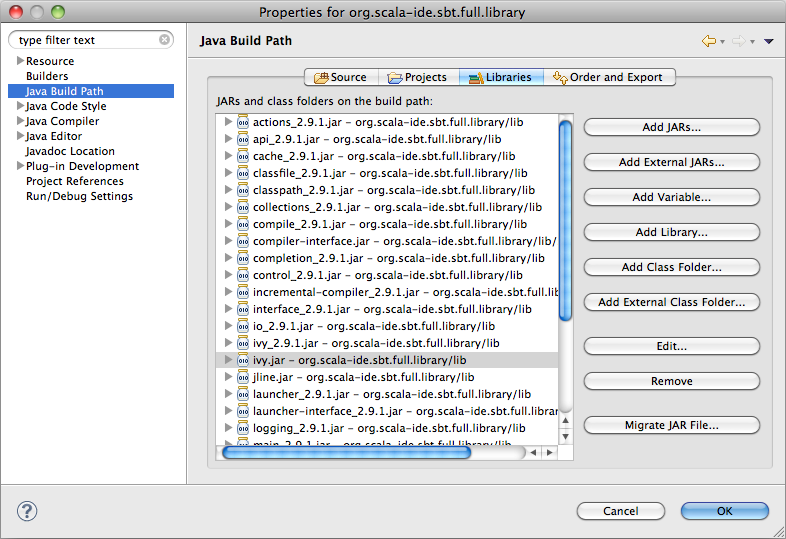
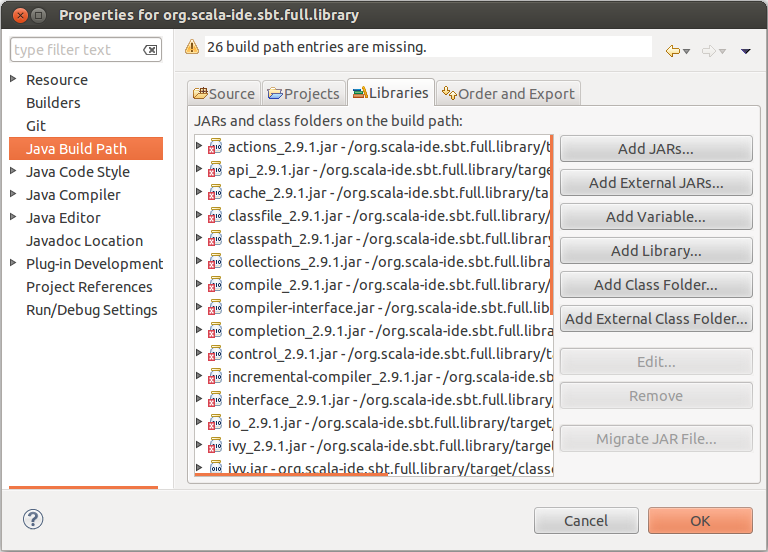
Updated the documentation about the new build
Fix #1001064

diff --git a/dev/setup/setup.rst b/dev/setup/setup.rst
@@ -20,13 +20,7 @@ Requirements
 
 * The `Scala IDE Helium for Scala 2.9 <http://scala-ide.org/download/nightly.html>`_.
 
-
-You will also need a terminal to run some script. If you are on Windows, we suggest you to 
-install `Cygwin <http://www.cygwin.com/>`_ (how could you live without it on Windows anyway!?). 
-It is not mandatory to use Cygwin, but in this documentation we assume you have a way to run 
-bash scripts, or else, you have the time and motivation to look inside the existing scripts and 
-convert them in Windows batch files, if needed (if you do so, make sure to send a pull request our way, 
-and we will make the Windows scripts available to all contributors).
+This document uses a script to build Scala IDE. If you are on Windows, we suggest you to install Cygwin (how could you live without it on Windows anyway!?). Otherwise, the :ref:`building_run-the-build` section of the documentation describes the different steps to execute for a full build.
 
 .. _setup_fork-the-project:
 
@@ -52,64 +46,53 @@ Make sure to `add an Upstream <http://help.github.com/fork-a-repo/#Set-Up-Your-L
 to the original Scala IDE git remote repository, so that you can keep fetching the latest changes 
 made in the project, and easily integrate them back in your fork.
 
-Now, fire up Eclipse and import the Scala IDE project. In a few moment you will be all set to start 
-hacking on the Scala IDE!
+Pull the libraries
+------------------
 
+The Scala IDE projects uses libraries which are pulled during the build process and copied in the ``target/lib`` folders.
+So let's run the build.
+
+From the project root, run the following command if you are using Scala IDE with Scala 2.9:
+
+.. code-block:: bash
+
+   $ ./build-all.sh clean install
+
+or the following if you are using Scala IDE with Scala 2.10:
+
+.. code-block:: bash
+
+   $ ./build-all.sh -P scala-2.10.x clean install
+
+If you want more information concerning the build, check out :ref:`building_run-the-build`.
 
 Import the projects into Eclipse
 --------------------------------
 
 The Scala IDE project already contains the metadata files needed by Eclipse to setup the project. 
-To import the Scala IDE in your workspace simply click on File > Import. The Eclipse Import dialog 
-will open. There, select General > Existing Projects into Workspace and click Next. A new dialog 
+To import the Scala IDE in your workspace simply click on ``File > Import``. The Eclipse Import dialog 
+will open. There, select ``General > Existing Projects into Workspace`` and click Next. A new dialog 
 will open. Browse to the folder that points to your cloned Scala IDE project's and select it. 
 
 A list of projects should then be loaded in the below white area. The only projects that you absolutely 
 need to import in Eclipse are ``org.scala-ide.sbt.full.library``, ``org.scala-ide.sdt.core`` and 
 ``org.scala-ide.sdt.core.tests``. Select only those and click Finish. 
  
-There is only one more thing you need to do to get ready to hack the Scala IDE project. You will 
+There is only one more thing to check to get ready to hack the Scala IDE project. You may 
 notice that the ``org.scala-ide.sbt.full.library`` project has build path errors. This project is 
-grouping together a bunch of SBT jars into one OSGI bundle. In order to retrieve them from 
-different SBT/Ivy repositories, you need to run a script from the command line. 
- 
-Open a terminal, go in your (local) Scala IDE project's root folder, and then 
- 
-.. code-block:: bash
- 
-	$ cd org.scala-ide.build-toolchain
- 
-The script to run is different depending on the Scala version packaged with the Scala IDE plug-in 
-you have installed.
- 
-If you are using the Scala IDE with Scala 2.9
- 
-.. code-block:: bash
-	
-	$ ./build-toolchain-2.9.x.sh
-	
-or, if you are using Scala IDE with Scala 2.10 (trunk)
- 
-.. code-block:: bash
-	
-	$ ./build-toolchain-trunk.sh
- 
-After the script completes, refresh the ``org.scala-ide.sbt.full.library`` project in Eclipse. Then, 
-expand the ``org.scala-ide.sbt.full.library`` project and expand the ``lib`` folder. You should 
-see a number of JARs with a Scala version appended.
- 
-Now, right click on the ``org.scala-ide.sbt.full.library`` project and then click "Properties". A 
-dialog will open. Click on "Java Build Path" and select the Libraries tab. You should see something 
+grouping together a bunch of SBT jars into one OSGI bundle. The project build path is configured by default to
+reference the 2.9 version of the jars, so the configuration will be wrong if you are working with Scala 2.10.
+
+To fix this, right click on the ``org.scala-ide.sbt.full.library`` project and then click "Properties". A 
+dialog will open. Click on "Java Build Path" and select the "Libraries" tab. You should see something 
 on the lines of:
  
 .. image:: images/sbt-full-jars.png
    :width: 100%
    :target: ../../_images/sbt-full-jars.png
  
-If you are seeing errors it means that the imported JARs do not match the ones existing in 
-``org.scala-ide.sbt.full.library/lib`` folder. To fix this, first remove all JARs, and then click 
-the "Add JARs..." button and browse to ``org.scala-ide.sbt.full.library/lib``. Select all JARs in the 
-folder and click OK.
+First remove all JARs, and then click the "Add JARs..." button and browse to ``org.scala-ide.sbt.full.library/target/classes/lib``.
+Select all JARs in the folder and click OK.
  
 Now click the "Order and Export" tab and make sure to export all JARs click the "Select All" button. 
  
@@ -119,22 +102,9 @@ Now click the "Order and Export" tab and make sure to export all JARs click the 
  
  
 Click OK. 
-
-Eclipse should automatically refresh the projects, but you will still see some build 
-errors in the ``org.scala-ide.sbt.core`` project. The problem is that we are missing a few 
-dependencies needed to compile the project's sources. To fix this, you will need to build the 
-project from the terminal. Follow the steps described in :ref:`building_run-the-build`. Then, 
-come back to finish the setup. 
-
-When running the build script, Maven will take care of copying the dependecies in the 
-``org.scala-ide.sbt.core`` project, inside the ``/lib`` folder. After the build completed, you should 
-no longer see errors inside Eclipse. If you do still see errors, try to refresh all projects (in 
-Eclipse, select all the imported Scala IDE projects and press F5) and do a full clean, 
-re-build (to do so, click on the "Project" menu item, and the "Clean...").
  
-If after rebuilding you still see errors, drop us a note in the `Scala IDE Developer 
+If after rebuilding you see any errors, drop us a note in the `Scala IDE Developer 
 Mailing List <http://groups.google.com/group/scala-ide-dev?pli=1>`_.
-
 
 Run the Scala IDE within Eclipse
 --------------------------------

diff --git a/dev/building/building.rst b/dev/building/building.rst
@@ -2,7 +2,7 @@ Building the Scala IDE
 ======================
 
 The Scala IDE for Eclipse can be built on the command line using Maven, as is 
-done, for example, during the `Hudson-driven nightly builds on Amazon EC2 <https://jenkins.scala-ide.org:8496/jenkins/>`_. 
+done, for example, during the `Jenkins-driven nightly builds <https://jenkins.scala-ide.org:8496/jenkins/>`_. 
 
 
 Requirements
@@ -18,35 +18,25 @@ Requirements
 * You have cloned the Scala IDE project. Read :ref:`setup_fork-the-project` for 
   more information about this point.
 
-You will also need a terminal to run some script. If you are on Windows, we
-suggest you to install Cygwin (how could you live without it on Windows
-anyway!?). It is not mandatory to use Cygwin, but in this documentation we
-assume you have a way to run bash scripts, or else, you have the time and
-motivation to look inside the existing scripts and convert them in Windows
-batch files, if needed (if you do so, make sure to send a pull request our
-way, and we will make the Windows scripts available to all contributors).
-
-
 .. _building_run-the-build:
 
 Run the build
 -------------
 
-Open your terminal, navigate to the project's root, and then:
+If you just want to build Scala IDE, a script triggers the different step needed to generate Scala IDE.
+
+
+From the project root, run the following command to build Scala IDE for Scala 2.9:
 
 .. code-block:: bash
 
-	$ cd org.scala-ide.build
+   $ ./build-all.sh clean install
 
-Build using the provided scripts,
+or the following to build Scala IDE for Scala 2.10:
 
 .. code-block:: bash
 
-      # For builds relative to Scala 2.9.x
-      $ ./build-ide-2.9.x.sh
-      #
-      # For builds relative to Scala trunk
-      $ ./build-ide-trunk.sh
+   $ ./build-all.sh -P scala-2.10.x clean install
 
 .. note:: 
 
@@ -60,6 +50,41 @@ from this update site by adding it as a local update site via the Eclipse
 "Install New Software ..." action. Alternatively, if you make the unpacked site available via a web 
 server, then the HTTP URL of its root directory is acceptable as an ordinary Eclipse update site URL.
 
+The build in details
+--------------------
+
+The build relies only on maven and maven profile.
+
+There are 4 parts:
+
+* the *root* pom is the parent pom. It contains version numbers, default configurations and the profiles
+* *org.scala-ide.build-toolchain* creates the osgi bundles for the Scala library, compiler and sbt
+* *org.scala-ide.toolchain.update-site* creates an update site containing the bundles created by the build-toolchain (needed for the nightly builds)
+* *org.scala-ide.sdt.build* compiles, tests and creates the update site for Scala IDE
+
+The toolchain update site and the SDT build depend on the fact that the root pom and toolchain have been compiled and installed in the local maven repository using ``mvn install``.
+
+After an initial complete build, maven can be used from any subproject.
+
+``build-all.sh`` is simply a helper script that calls maven on the different parts. Running it is equivalent to:
+
+.. code-block:: bash
+
+   $ mvn clean install
+   $ cd org.scala-ide.build-toolchain
+   $ mvn clean install
+   $ cd ../org.scala-ide.sdt.build
+   $ mvn clean install
+
+or for Scala 2.10.x:
+
+.. code-block:: bash
+
+   $ mvn -P scala-2.10.x clean install
+   $ cd org.scala-ide.build-toolchain
+   $ mvn -P scala-2.10.x clean install
+   $ cd ../org.scala-ide.sdt.build
+   $ mvn -P scala-2.10.x clean install
 
 
 Build the Scala IDE with a local version of the Scala Compiler
@@ -72,32 +97,23 @@ Build the Scala IDE with a local version of the Scala Compiler
 	Scala IDE plug-in reacts to the changes. If that is exactly what you want to do, keep reading.
 	Otherwise, you can safely skip this section.
 
-First, build the Scala compiler, package into maven format and deploy locally,
+Build the Scala compiler, package into maven format and deploy locally,
 
 .. code-block:: bash
 
-    # You are in the main Scala directory
+    # From the main Scala directory
     $ ant distpack-opt
-    $ (cd dists/maven/latest; ant -Dlocal.snapshot.repository=${LOCAL_REPO} -Dlocal.release.repository=${LOCAL_REPO} deploy.snapshot.local)
-    
-    # If you use the standard .m2 location for maven, then the last command reduces to
     $ (cd dists/maven/latest; ant deploy.snapshot.local)
 
-Go to directory where you cloned your Scala IDE and run the necessary scripts that use your local 
-trunk version
+Then rebuild Scala IDE, the build will automatically pickup the compiler which was installed locally.
 
 .. code-block:: bash
 
-    # Packages the Scala compiler and library into OSGI bundles
-    $ org.scala-ide.build-toolchain/build-toolchain-local-trunk.sh
-    
-    # Uses the above bundled compiler and library to build the Scala IDE
-    $ org.scala-ide.build/build-ide-local-trunk.sh
+    # From the main Scala IDE directory
+    $ ./build-all.sh -P scala-2.10.x clean install
 
-
-If the build was successful you will end up with a right update-site - it contains the local changes 
-you made in the Scala compiler. 
-
+When the build is successful, a complete update-site, with the local changes 
+you made in the Scala compiler, is available in ``org.scala-ide.sdt.update-site/target/site``.
 
 .. note::
 
